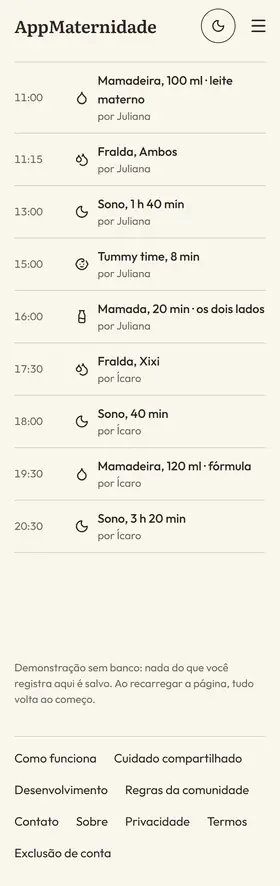
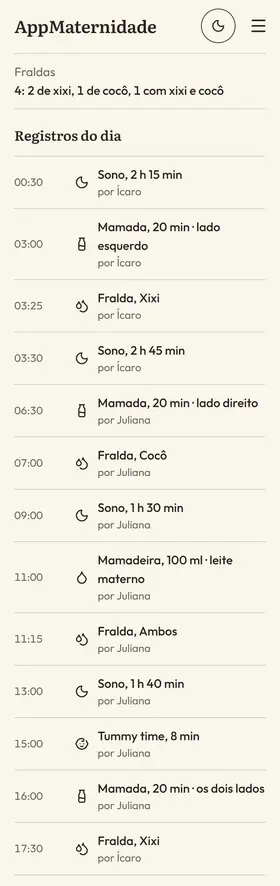
Refaz a tela do Histórico no telefone, sem rodapé, terminando às 17:30

diff --git a/web/src/teste/inicioCapturas.test.ts b/web/src/teste/inicioCapturas.test.ts
@@ -81,6 +81,24 @@ function problemas(manifesto: { capturas?: unknown }, ler: (relativo: string) =>
   return achados
 }
 
+/** Problems in the Y_ALTA entry: HOME-PHONE-B2 window ends on the 17:30 Ícaro row (16:00 Juliana just above), no 18:00 / 19:30 / 20:30 row, footer and demo note absent. */
+function problemasYAlta(alta: Captura): string[] {
+  const achados: string[] = []
+  const linhas = (Array.isArray(alta.linhas_topo) ? alta.linhas_topo : []).map((linha) => texto(linha))
+  const ultima = linhas[linhas.length - 1] ?? ''
+  const penultima = linhas[linhas.length - 2] ?? ''
+  if (!(ultima.includes('17:30') && ultima.includes('Ícaro'))) achados.push(`last row is ${ultima}, not the 17:30 Ícaro row`)
+  if (!linhas.some((l) => l.includes('16:00') && l.includes('Juliana'))) achados.push('no 16:00 Juliana row')
+  if (!penultima.includes('16:00')) achados.push(`the row before the last is ${penultima}, not the 16:00 row`)
+  for (const hora of ['18:00', '19:30', '20:30']) {
+    if (linhas.some((l) => l.includes(hora))) achados.push(`a ${hora} row is below the resting window`)
+  }
+  if (alta.rodape_ausente !== true) achados.push('rodape_ausente is not true')
+  if (alta.aviso_ausente !== true) achados.push('aviso_ausente is not true')
+  if (alta.ultima_linha_repouso !== '17:30') achados.push(`ultima_linha_repouso is ${String(alta.ultima_linha_repouso)}, not 17:30`)
+  return achados
+}
+
 const lerDoPublico = (relativo: string): Buffer | null => {
   const arquivo = join(PUBLICO, relativo)
   return existsSync(arquivo) ? readFileSync(arquivo) : null
@@ -131,6 +149,35 @@ describe('REPH-I-06 real captures: the manifest, the hashes of the served files,
     expect(linhas.some((l) => l.includes('17:30') && l.includes('Ícaro'))).toBe(true)
     const n = entrada(manifesto.capturas, 'N')
     expect(texto(n)).toContain('21:42')
+  })
+
+  it('REPH-I-06 state Y_ALTA ends on the 17:30 Ícaro row, holds the 16:00 Juliana row and lists no 18:00, 19:30 or 20:30 row', () => {
+    expect(existsSync(MANIFESTO)).toBe(true)
+    const manifesto = JSON.parse(readFileSync(MANIFESTO, 'utf8')) as { capturas: Captura[] }
+    const alta = entrada(manifesto.capturas, 'Y_ALTA')
+    expect(alta).toBeDefined()
+    expect(problemasYAlta(alta!)).toEqual([])
+  })
+
+  it('REPH-I-06 the Y_ALTA row check catches its controls: a 20:30 row, a missing 16:00 Juliana row, a last row that is not 17:30, the footer or note present', () => {
+    expect(existsSync(MANIFESTO)).toBe(true)
+    const bom: Captura = {
+      linhas_topo: ['15:00 Tummy time por Juliana', '16:00 Mamada por Juliana', '17:30 Fralda por Ícaro'],
+      rodape_ausente: true,
+      aviso_ausente: true,
+      ultima_linha_repouso: '17:30',
+    }
+    expect(problemasYAlta(bom)).toEqual([])
+    const com = (mudanca: Captura): Captura => ({ ...bom, ...mudanca })
+    const linhasBom = bom.linhas_topo as string[]
+    expect(problemasYAlta(com({ linhas_topo: [...linhasBom, '20:30 Sono por Ícaro'] })).some((p) => /20:30|last row/.test(p))).toBe(true)
+    expect(problemasYAlta(com({ linhas_topo: [...linhasBom, '18:00 Sono por Ícaro'] })).some((p) => /18:00/.test(p))).toBe(true)
+    expect(problemasYAlta(com({ linhas_topo: [linhasBom[0], '16:00 Mamada por Ícaro', linhasBom[2]] })).some((p) => /16:00/.test(p))).toBe(true)
+    expect(problemasYAlta(com({ linhas_topo: [linhasBom[0], linhasBom[2]] })).some((p) => /16:00/.test(p))).toBe(true)
+    expect(problemasYAlta(com({ linhas_topo: [linhasBom[1]] })).some((p) => /last row/.test(p))).toBe(true)
+    expect(problemasYAlta(com({ rodape_ausente: false })).some((p) => /rodape_ausente/.test(p))).toBe(true)
+    expect(problemasYAlta(com({ aviso_ausente: false })).some((p) => /aviso_ausente/.test(p))).toBe(true)
+    expect(problemasYAlta(com({ ultima_linha_repouso: '20:30' })).some((p) => /ultima_linha_repouso/.test(p))).toBe(true)
   })
 
   it('REPH-I-06 the page uses the entry Y_ALTA for the Histórico frame and the entry N for the Hoje frame', () => {

diff --git a/web/src/componentes/inicio-casa/midia.ts b/web/src/componentes/inicio-casa/midia.ts
@@ -67,10 +67,11 @@ const TAMANHOS_DA_TELA =
 
 /**
  * State `Y_ALTA` of the manifest (recaptured 19/11/2026, clock fixed 18/11 21:42): the Histórico of the day before in a
- * 390 x 1234 window scrolled to the page maximum (scroll_y 1767 of a 3001 px document), with `[data-rodape]` hidden for
- * the capture. The app header sits at the top of the image; the rows run from 11:00 to 20:30. The frame's screen layer
- * shows 844 of the 1234 CSS px, so the capture has exactly one screen width more than the screen (`ROLAGEM_PX`): the
- * frame opens on the bottom 844 px, where the 16:00 Juliana and 17:30 Ícaro rows lead the resting frame, and the pan
+ * 390 x 1234 window at scrollY 1099 of a 2609 px document (HOME-PHONE-B2), with `[data-rodape]` (site footer) and
+ * `[data-aviso-tela]` (in-app demo note) hidden for the capture only and asserted absent by the capture tool. The sticky
+ * app header sits at the top of the image. The frame's screen layer shows 844 of the 1234 CSS px, so the capture has
+ * exactly one screen width more than the screen (`ROLAGEM_PX`): the frame rests on the bottom 844 px, which ends on the
+ * 16:00 Juliana row followed by the 17:30 Ícaro row (the last row, 16 css px above the window bottom), and the pan
  * goes up to the header. The frames of the Início serve it.
  */
 export const CAPTURA_Y_ALTA: Imagem = imagemPublica({

diff --git a/web/public/telas/casa/PROVENANCE.md b/web/public/telas/casa/PROVENANCE.md
@@ -2,7 +2,9 @@
 
 The three screens were captured by `.oc/capturar.mjs` through `.oc/cdp.mjs` with mobile emulation (dpr 2, touch) and the fixed demo clock; each PNG is downscaled with LANCZOS to the served widths and encoded as lossy WebP (method 6). The manifest `MANIFESTO.json` carries the capture records and the hashes.
 
-HOME-FINAL-b recapture (2026-11-19): `historico-y-alta-*` and `hoje-n-*` were captured again by `.oc/rec.mjs`, which calls the `janela` extra of `.oc/capturar.mjs` with fail-closed asserts (demo sign-in, DPR 2, asserted paths `/app/historico` and `/app/hoje`) and encoded by `.oc/gerar.py` (PIL LANCZOS, WebP method 6, the quality per file below). The clock is pinned to 2026-11-18T21:42:04-03:00 by a CDP `Page.addScriptToEvaluateOnNewDocument` Date shim (`CAPTURA_RELOGIO`). Why: the previous Hoje capture used the case `hoje_app`, whose route branch never switched the madrugada theme, so it came out light, and in light the "Iniciar mamada" button with the last-feeding line is not drawn; the previous Histórico frame rested on the bottom 844 css px of the 1234 px capture and left the 09:00 row at its top. Now: the Histórico is the day before at 21:42 in a 390 x 1234 window (row 16:00 Juliana aligned at y=404 css, 17:30 Ícaro right below, so they lead the resting frame; scroll_y 1767, document height 3001 = scroll_y + 1234); 69 css px of blank spacer was added at the foot of the page for the capture only, so the page can scroll that far; the site footer `[data-rodape]` is set to `display:none` by an injected rule for the capture only. The Hoje is the madrugada theme (`data-tema` madrugada) in a 390 x 880 window scrolled 78 px, with "Iniciar mamada" and "Última mamada às 16:00, registrada por Juliana" fully above the bottom bar. The demo fixture has no entries for today, so the clock pin cannot create today's rows and the Hoje counters stay 0 by the fixture. Same file names as before. `historico-y-*` (state Y) is unchanged.
+HOME-FINAL-b recapture (2026-11-19): `historico-y-alta-*` and `hoje-n-*` were captured again by `.oc/rec.mjs`, which calls the `janela` extra of `.oc/capturar.mjs` with fail-closed asserts (demo sign-in, DPR 2, asserted paths `/app/historico` and `/app/hoje`) and encoded by `.oc/gerar.py` (PIL LANCZOS, WebP method 6, the quality per file below). The clock is pinned to 2026-11-18T21:42:04-03:00 by a CDP `Page.addScriptToEvaluateOnNewDocument` Date shim (`CAPTURA_RELOGIO`). Why: the previous Hoje capture used the case `hoje_app`, whose route branch never switched the madrugada theme, so it came out light, and in light the "Iniciar mamada" button with the last-feeding line is not drawn; the previous Histórico frame rested on the bottom 844 css px of the 1234 px capture and left the 09:00 row at its top. The Histórico part of that round (window pinned to the page maximum at scroll_y 1767 of 3001 with 69 css px of blank spacer, and a claimed hide of `[data-rodape]` that never took effect) is SUPERSEDED by the HOME-PHONE-B2 recapture below: that image still showed the demo note, a blank band and the site footer. The Hoje is the madrugada theme (`data-tema` madrugada) in a 390 x 880 window scrolled 78 px, with "Iniciar mamada" and "Última mamada às 16:00, registrada por Juliana" fully above the bottom bar. The demo fixture has no entries for today, so the clock pin cannot create today's rows and the Hoje counters stay 0 by the fixture. Same file names as before. `historico-y-*` (state Y) is unchanged.
+
+HOME-PHONE-B2 recapture (2026-11-19, card t_53d1da83): `historico-y-alta-*` only, captured with the fail-closed `janela` extra of `.oc/capturar.mjs` (`CAPTURA_FIM_EM=17:30`, `CAPTURA_LINHA_ANTES=16:00`, `CAPTURA_ESPERA_ULTIMA=17:30`; demo sign-in, DPR 2, touch, route `/app/historico`, theme claro, day "anterior", clock pinned to 2026-11-18T21:42:04-03:00 by the CDP Date shim `CAPTURA_RELOGIO`) and re-encoded by `.oc/gerar.py` at the qualities listed in `.oc/rec/servidos.json` (q40, q54, q60, q72). The window is 390 x 1234 at scrollY 1099 of a 2609 px document. The site footer `[data-rodape]` and the in-app demo note `[data-aviso-tela]` are hidden for the capture only by an injected `display:none` rule; the tool asserts both absent (computed display none, no AVISO_DEMONSTRACAO text visible). Nothing else is hidden, no row is removed from the DOM, and the Dia/Semana/day-navigation/filter controls stay visible. The sticky app header is at the top of the window; the last resting row is 17:30 Ícaro, its bottom 16 css px above the window bottom, with 16:00 Juliana directly above it. No 18:00, 19:30 or 20:30 row, no footer, no demo note and no blank band are in the image. Tool line: `CAPTURA_OK historico_ontem_claro_390_janela.png caminho=/app/historico png=780x2468 esperado=780x2468 mobile=true dpr=2 toque=true scrollWidth=390 sha256=ad36fd18162070ed1e442e7e5e09c6f517cfce68f13096d7385808312d56e121 (só a janela) rodape=ausente aviso=ausente ultima_linha="17:30"`. Negative controls: a run without the hide exits 3, and a run with the target row 20:30 exits 3. The 35,000 B cap is unchanged. The widths and heights are unchanged (280x886, 320x1013, 560x1772, 640x2025).
 
 | file | sha256 | bytes | WxH | source | script (name + sha256) | operation | date |
 |---|---|---|---|---|---|---|---|
@@ -10,10 +12,10 @@ HOME-FINAL-b recapture (2026-11-19): `historico-y-alta-*` and `hoje-n-*` were ca
 | historico-y-560w.webp | 99679ea38918e022f0253ecd544ce2cce6ef20060c1db4b0c516cf8745b30a3d | 26834 | 560x1212 | historico_y_claro_390.png sha256 d701a1ad534373e36f54470f4933789249c2920eb5bfb65db671d79c5cd145a1; CAPTURA_OK historico_y_claro_390.png caminho=/app/historico png=780x1688 esperado=780x1688 mobile=true dpr=2 toque=true scrollWidth=390 sha256=d701a1ad534373e36f54470f4933789249c2920eb5bfb65db671d79c5cd145a1 (só a janela) | gerar_ativos.py sha256 8485a4e01cd8f989db7340d77d502f4da907c993941f3b3b68ca94eb8b5ae7d6 | WebP q82 method 6 LANCZOS downscale from 780 px | 2026-11-18 |
 | historico-y-320w.webp | fa6462b412e4be99752bd3626af98d93bfa00f6deb8c310d470a366bc4d8a60f | 13752 | 320x693 | historico_y_claro_390.png sha256 d701a1ad534373e36f54470f4933789249c2920eb5bfb65db671d79c5cd145a1; CAPTURA_OK historico_y_claro_390.png caminho=/app/historico png=780x1688 esperado=780x1688 mobile=true dpr=2 toque=true scrollWidth=390 sha256=d701a1ad534373e36f54470f4933789249c2920eb5bfb65db671d79c5cd145a1 (só a janela) | gerar_ativos.py sha256 8485a4e01cd8f989db7340d77d502f4da907c993941f3b3b68ca94eb8b5ae7d6 | WebP q82 method 6 LANCZOS downscale from 780 px | 2026-11-18 |
 | historico-y-280w.webp | 25e7c44db58acfe875c07aa60a4630e981e32b45d4772f0d98ce67b1edff1679 | 11924 | 280x606 | historico_y_claro_390.png sha256 d701a1ad534373e36f54470f4933789249c2920eb5bfb65db671d79c5cd145a1; CAPTURA_OK historico_y_claro_390.png caminho=/app/historico png=780x1688 esperado=780x1688 mobile=true dpr=2 toque=true scrollWidth=390 sha256=d701a1ad534373e36f54470f4933789249c2920eb5bfb65db671d79c5cd145a1 (só a janela) | gerar_ativos.py sha256 8485a4e01cd8f989db7340d77d502f4da907c993941f3b3b68ca94eb8b5ae7d6 | WebP q82 method 6 LANCZOS downscale from 780 px | 2026-11-18 |
-| historico-y-alta-640w.webp | 2afcfa6d8d37b3230f7ebcc754dde1c0b15efe11ef0e37501ae275c922d511e9 | 34788 | 640x2025 | historico_ontem_claro_390_janela.png sha256 06c93bd433a268d7c96171239f2580bde622b008dd63b63d55d7134d03d9780b; CAPTURA_OK historico_ontem_claro_390_janela.png caminho=/app/historico png=780x2468 esperado=780x2468 mobile=true dpr=2 toque=true scrollWidth=390 sha256=06c93bd433a268d7c96171239f2580bde622b008dd63b63d55d7134d03d9780b (só a janela); the day before, 390 x 1234 window at scroll_y 1767 of 3001, 16:00 row aligned at y=404 css, 69 css px spacer at the foot, `[data-rodape]` hidden by injected display:none | .oc/rec.mjs -> .oc/capturar.mjs (extra janela, clock pinned 2026-11-18T21:42:04-03:00) + .oc/gerar.py | WebP q39 method 6 PIL LANCZOS downscale from 780 px (quality lowered to stay under the 35000 B cap) | 2026-11-19 |
-| historico-y-alta-560w.webp | 8bc9c64cc7ea7909eb66d529a50965c9d3e211a288d6e21ed8c48b79060c8363 | 34524 | 560x1772 | historico_ontem_claro_390_janela.png sha256 06c93bd433a268d7c96171239f2580bde622b008dd63b63d55d7134d03d9780b; CAPTURA_OK historico_ontem_claro_390_janela.png caminho=/app/historico png=780x2468 esperado=780x2468 mobile=true dpr=2 toque=true scrollWidth=390 sha256=06c93bd433a268d7c96171239f2580bde622b008dd63b63d55d7134d03d9780b (só a janela); the day before, 390 x 1234 window at scroll_y 1767 of 3001, 16:00 row aligned at y=404 css, 69 css px spacer at the foot, `[data-rodape]` hidden by injected display:none | .oc/rec.mjs -> .oc/capturar.mjs (extra janela, clock pinned 2026-11-18T21:42:04-03:00) + .oc/gerar.py | WebP q54 method 6 PIL LANCZOS downscale from 780 px (quality lowered to stay under the 35000 B cap) | 2026-11-19 |
-| historico-y-alta-320w.webp | 7aba27eddc2806a517a19c5e7b623eff8ec99737e2044aee3697a3b5b0496fc2 | 17790 | 320x1013 | historico_ontem_claro_390_janela.png sha256 06c93bd433a268d7c96171239f2580bde622b008dd63b63d55d7134d03d9780b; CAPTURA_OK historico_ontem_claro_390_janela.png caminho=/app/historico png=780x2468 esperado=780x2468 mobile=true dpr=2 toque=true scrollWidth=390 sha256=06c93bd433a268d7c96171239f2580bde622b008dd63b63d55d7134d03d9780b (só a janela); the day before, 390 x 1234 window at scroll_y 1767 of 3001, 16:00 row aligned at y=404 css, 69 css px spacer at the foot, `[data-rodape]` hidden by injected display:none | .oc/rec.mjs -> .oc/capturar.mjs (extra janela, clock pinned 2026-11-18T21:42:04-03:00) + .oc/gerar.py | WebP q60 method 6 PIL LANCZOS downscale from 780 px | 2026-11-19 |
-| historico-y-alta-280w.webp | 7c11c0b787aa2ee944806d95ea15e88848de05cf9dc4b90d499c17ce12d4cb9f | 16104 | 280x886 | historico_ontem_claro_390_janela.png sha256 06c93bd433a268d7c96171239f2580bde622b008dd63b63d55d7134d03d9780b; CAPTURA_OK historico_ontem_claro_390_janela.png caminho=/app/historico png=780x2468 esperado=780x2468 mobile=true dpr=2 toque=true scrollWidth=390 sha256=06c93bd433a268d7c96171239f2580bde622b008dd63b63d55d7134d03d9780b (só a janela); the day before, 390 x 1234 window at scroll_y 1767 of 3001, 16:00 row aligned at y=404 css, 69 css px spacer at the foot, `[data-rodape]` hidden by injected display:none | .oc/rec.mjs -> .oc/capturar.mjs (extra janela, clock pinned 2026-11-18T21:42:04-03:00) + .oc/gerar.py | WebP q72 method 6 PIL LANCZOS downscale from 780 px | 2026-11-19 |
+| historico-y-alta-640w.webp | 7365e0b1f4cbd82a00ee48c7a90845c1268ad4ed626e259ac058ec40deac0cd9 | 34804 | 640x2025 | historico_ontem_claro_390_janela.png sha256 ad36fd18162070ed1e442e7e5e09c6f517cfce68f13096d7385808312d56e121; CAPTURA_OK historico_ontem_claro_390_janela.png caminho=/app/historico png=780x2468 esperado=780x2468 mobile=true dpr=2 toque=true scrollWidth=390 sha256=ad36fd18162070ed1e442e7e5e09c6f517cfce68f13096d7385808312d56e121 (só a janela) rodape=ausente aviso=ausente ultima_linha="17:30"; the day before, 390 x 1234 window at scrollY 1099 of 2609, `[data-rodape]` and `[data-aviso-tela]` hidden by injected display:none and asserted absent, last resting row 17:30 | .oc/capturar.mjs (extra janela, HOME-PHONE-B2, clock pinned 2026-11-18T21:42:04-03:00) + .oc/gerar.py | WebP q40 method 6 PIL LANCZOS downscale from 780 px (quality lowered to stay under the 35000 B cap) | 2026-11-19 |
+| historico-y-alta-560w.webp | 4166ee7ff0dcb6ee1991a9c0035ef559a0e0912797fcf8a8463b3b84910dc24f | 34724 | 560x1772 | historico_ontem_claro_390_janela.png sha256 ad36fd18162070ed1e442e7e5e09c6f517cfce68f13096d7385808312d56e121; CAPTURA_OK historico_ontem_claro_390_janela.png caminho=/app/historico png=780x2468 esperado=780x2468 mobile=true dpr=2 toque=true scrollWidth=390 sha256=ad36fd18162070ed1e442e7e5e09c6f517cfce68f13096d7385808312d56e121 (só a janela) rodape=ausente aviso=ausente ultima_linha="17:30"; the day before, 390 x 1234 window at scrollY 1099 of 2609, `[data-rodape]` and `[data-aviso-tela]` hidden by injected display:none and asserted absent, last resting row 17:30 | .oc/capturar.mjs (extra janela, HOME-PHONE-B2, clock pinned 2026-11-18T21:42:04-03:00) + .oc/gerar.py | WebP q54 method 6 PIL LANCZOS downscale from 780 px (quality lowered to stay under the 35000 B cap) | 2026-11-19 |
+| historico-y-alta-320w.webp | aa7deb44a355db0622895c22fbe28c00e045840141e3b0d210c40cb8afea3ee2 | 18424 | 320x1013 | historico_ontem_claro_390_janela.png sha256 ad36fd18162070ed1e442e7e5e09c6f517cfce68f13096d7385808312d56e121; CAPTURA_OK historico_ontem_claro_390_janela.png caminho=/app/historico png=780x2468 esperado=780x2468 mobile=true dpr=2 toque=true scrollWidth=390 sha256=ad36fd18162070ed1e442e7e5e09c6f517cfce68f13096d7385808312d56e121 (só a janela) rodape=ausente aviso=ausente ultima_linha="17:30"; the day before, 390 x 1234 window at scrollY 1099 of 2609, `[data-rodape]` and `[data-aviso-tela]` hidden by injected display:none and asserted absent, last resting row 17:30 | .oc/capturar.mjs (extra janela, HOME-PHONE-B2, clock pinned 2026-11-18T21:42:04-03:00) + .oc/gerar.py | WebP q60 method 6 PIL LANCZOS downscale from 780 px | 2026-11-19 |
+| historico-y-alta-280w.webp | a852a80de47e80ce46dd0eb4221e943dc911cf89a8d88506b7c7b5d4bc5ac4cf | 16348 | 280x886 | historico_ontem_claro_390_janela.png sha256 ad36fd18162070ed1e442e7e5e09c6f517cfce68f13096d7385808312d56e121; CAPTURA_OK historico_ontem_claro_390_janela.png caminho=/app/historico png=780x2468 esperado=780x2468 mobile=true dpr=2 toque=true scrollWidth=390 sha256=ad36fd18162070ed1e442e7e5e09c6f517cfce68f13096d7385808312d56e121 (só a janela) rodape=ausente aviso=ausente ultima_linha="17:30"; the day before, 390 x 1234 window at scrollY 1099 of 2609, `[data-rodape]` and `[data-aviso-tela]` hidden by injected display:none and asserted absent, last resting row 17:30 | .oc/capturar.mjs (extra janela, HOME-PHONE-B2, clock pinned 2026-11-18T21:42:04-03:00) + .oc/gerar.py | WebP q72 method 6 PIL LANCZOS downscale from 780 px | 2026-11-19 |
 | hoje-n-640w.webp | 4839c5706f10717bcd1cf822095e488939edbaf5b26e9093d4fbad58cc4d0f50 | 33318 | 640x1444 | hoje_madrugada_390_janela.png sha256 65f98b0ccb2471c5868dc6b2d8f3994ede0e48e3f906a8a8c5ce848a7ba556f2; CAPTURA_OK hoje_madrugada_390_janela.png caminho=/app/hoje png=780x1760 esperado=780x1760 mobile=true dpr=2 toque=true scrollWidth=390 sha256=65f98b0ccb2471c5868dc6b2d8f3994ede0e48e3f906a8a8c5ce848a7ba556f2 (só a janela); madrugada theme, 390 x 880 window scrolled 78 px | .oc/rec.mjs -> .oc/capturar.mjs (extra janela, clock pinned 2026-11-18T21:42:04-03:00) + .oc/gerar.py | WebP q70 method 6 PIL LANCZOS downscale from 780 px | 2026-11-19 |
 | hoje-n-560w.webp | b0855395324aa2b6723380c428455b4bd14a1be171165dfba4d471d665ab2686 | 33272 | 560x1264 | hoje_madrugada_390_janela.png sha256 65f98b0ccb2471c5868dc6b2d8f3994ede0e48e3f906a8a8c5ce848a7ba556f2; CAPTURA_OK hoje_madrugada_390_janela.png caminho=/app/hoje png=780x1760 esperado=780x1760 mobile=true dpr=2 toque=true scrollWidth=390 sha256=65f98b0ccb2471c5868dc6b2d8f3994ede0e48e3f906a8a8c5ce848a7ba556f2 (só a janela); madrugada theme, 390 x 880 window scrolled 78 px | .oc/rec.mjs -> .oc/capturar.mjs (extra janela, clock pinned 2026-11-18T21:42:04-03:00) + .oc/gerar.py | WebP q80 method 6 PIL LANCZOS downscale from 780 px | 2026-11-19 |
 | hoje-n-320w.webp | 6571ccd866fe1b4c62de58327af8275fd04938b7eb90f2da52d03fb98df940a3 | 14516 | 320x722 | hoje_madrugada_390_janela.png sha256 65f98b0ccb2471c5868dc6b2d8f3994ede0e48e3f906a8a8c5ce848a7ba556f2; CAPTURA_OK hoje_madrugada_390_janela.png caminho=/app/hoje png=780x1760 esperado=780x1760 mobile=true dpr=2 toque=true scrollWidth=390 sha256=65f98b0ccb2471c5868dc6b2d8f3994ede0e48e3f906a8a8c5ce848a7ba556f2 (só a janela); madrugada theme, 390 x 880 window scrolled 78 px | .oc/rec.mjs -> .oc/capturar.mjs (extra janela, clock pinned 2026-11-18T21:42:04-03:00) + .oc/gerar.py | WebP q72 method 6 PIL LANCZOS downscale from 780 px | 2026-11-19 |

diff --git a/web/PROVENANCE.md b/web/PROVENANCE.md
@@ -69,7 +69,7 @@ As telas dos celulares do Início são capturas reais do próprio site, não ima
 
 | Arquivo | Registro |
 |---|---|
[3 lines of base64/hex data omitted]
 
 ## Movimento
